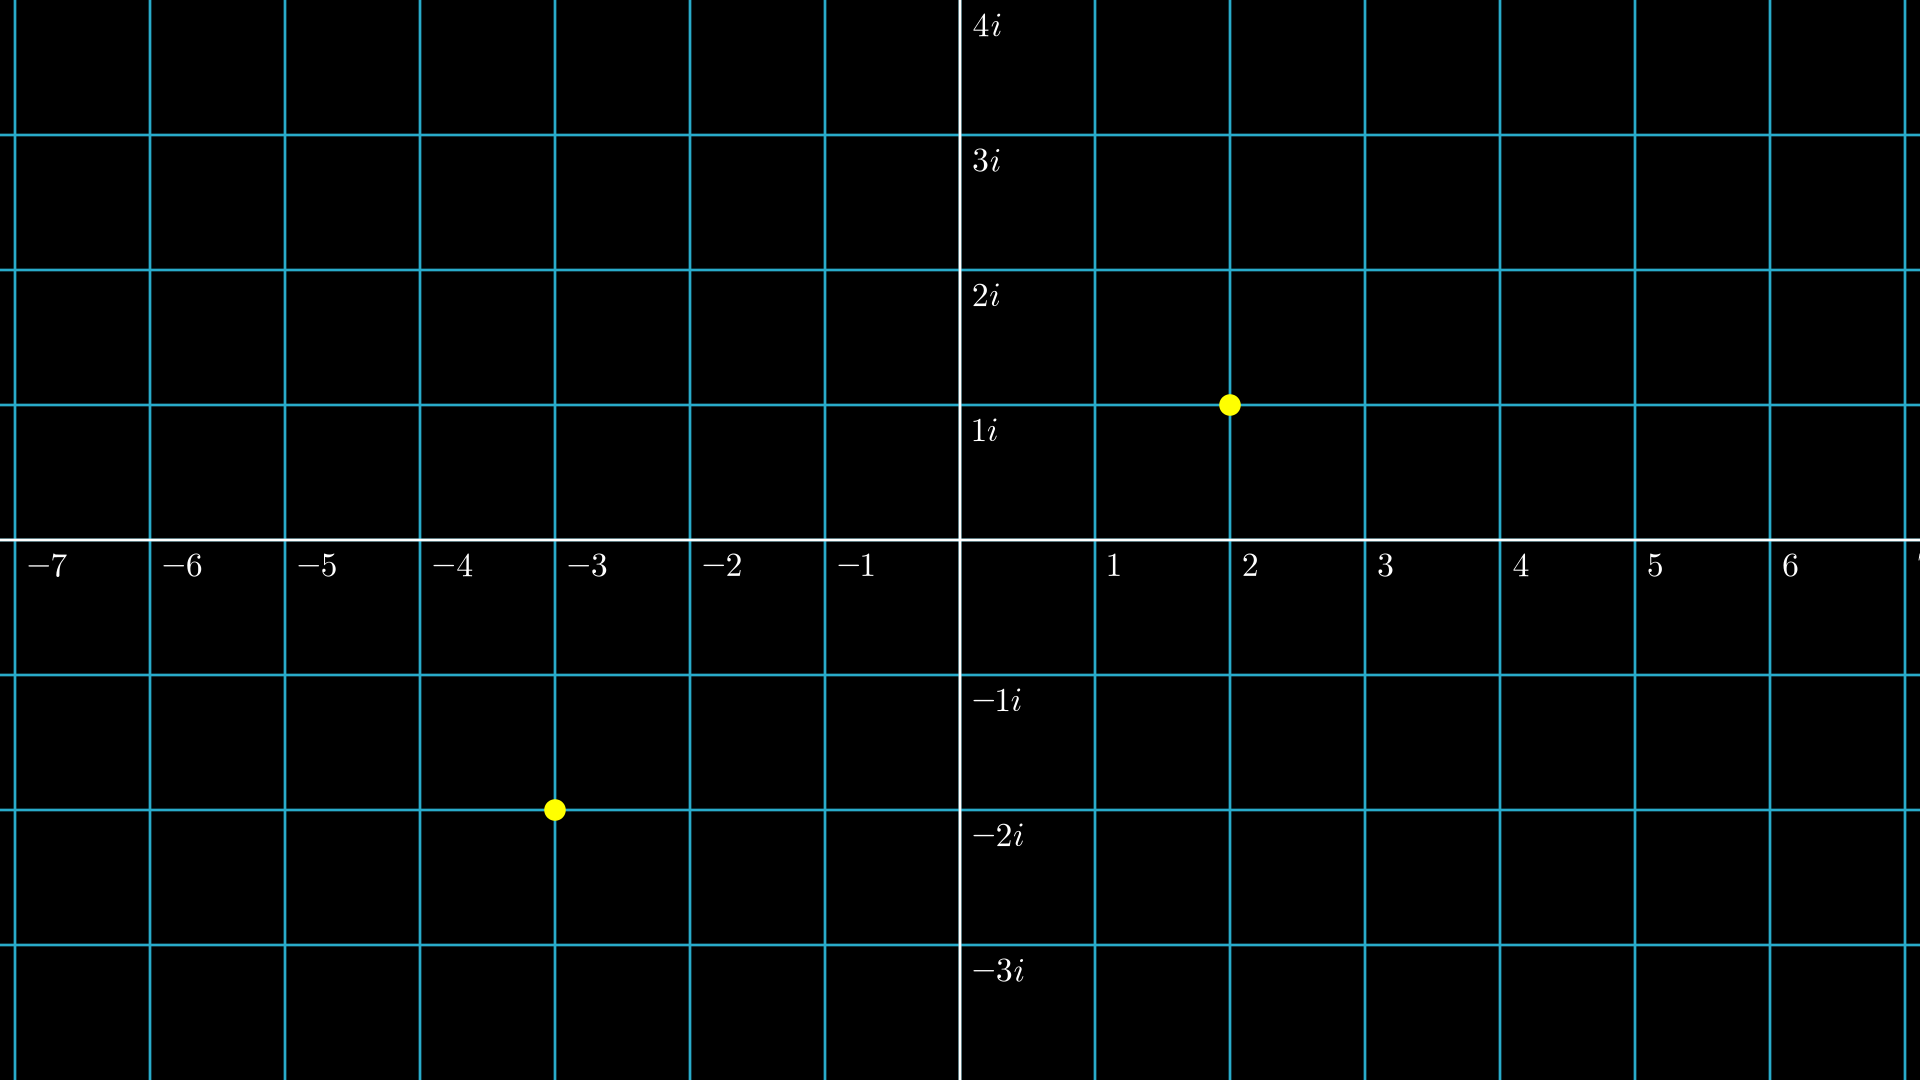
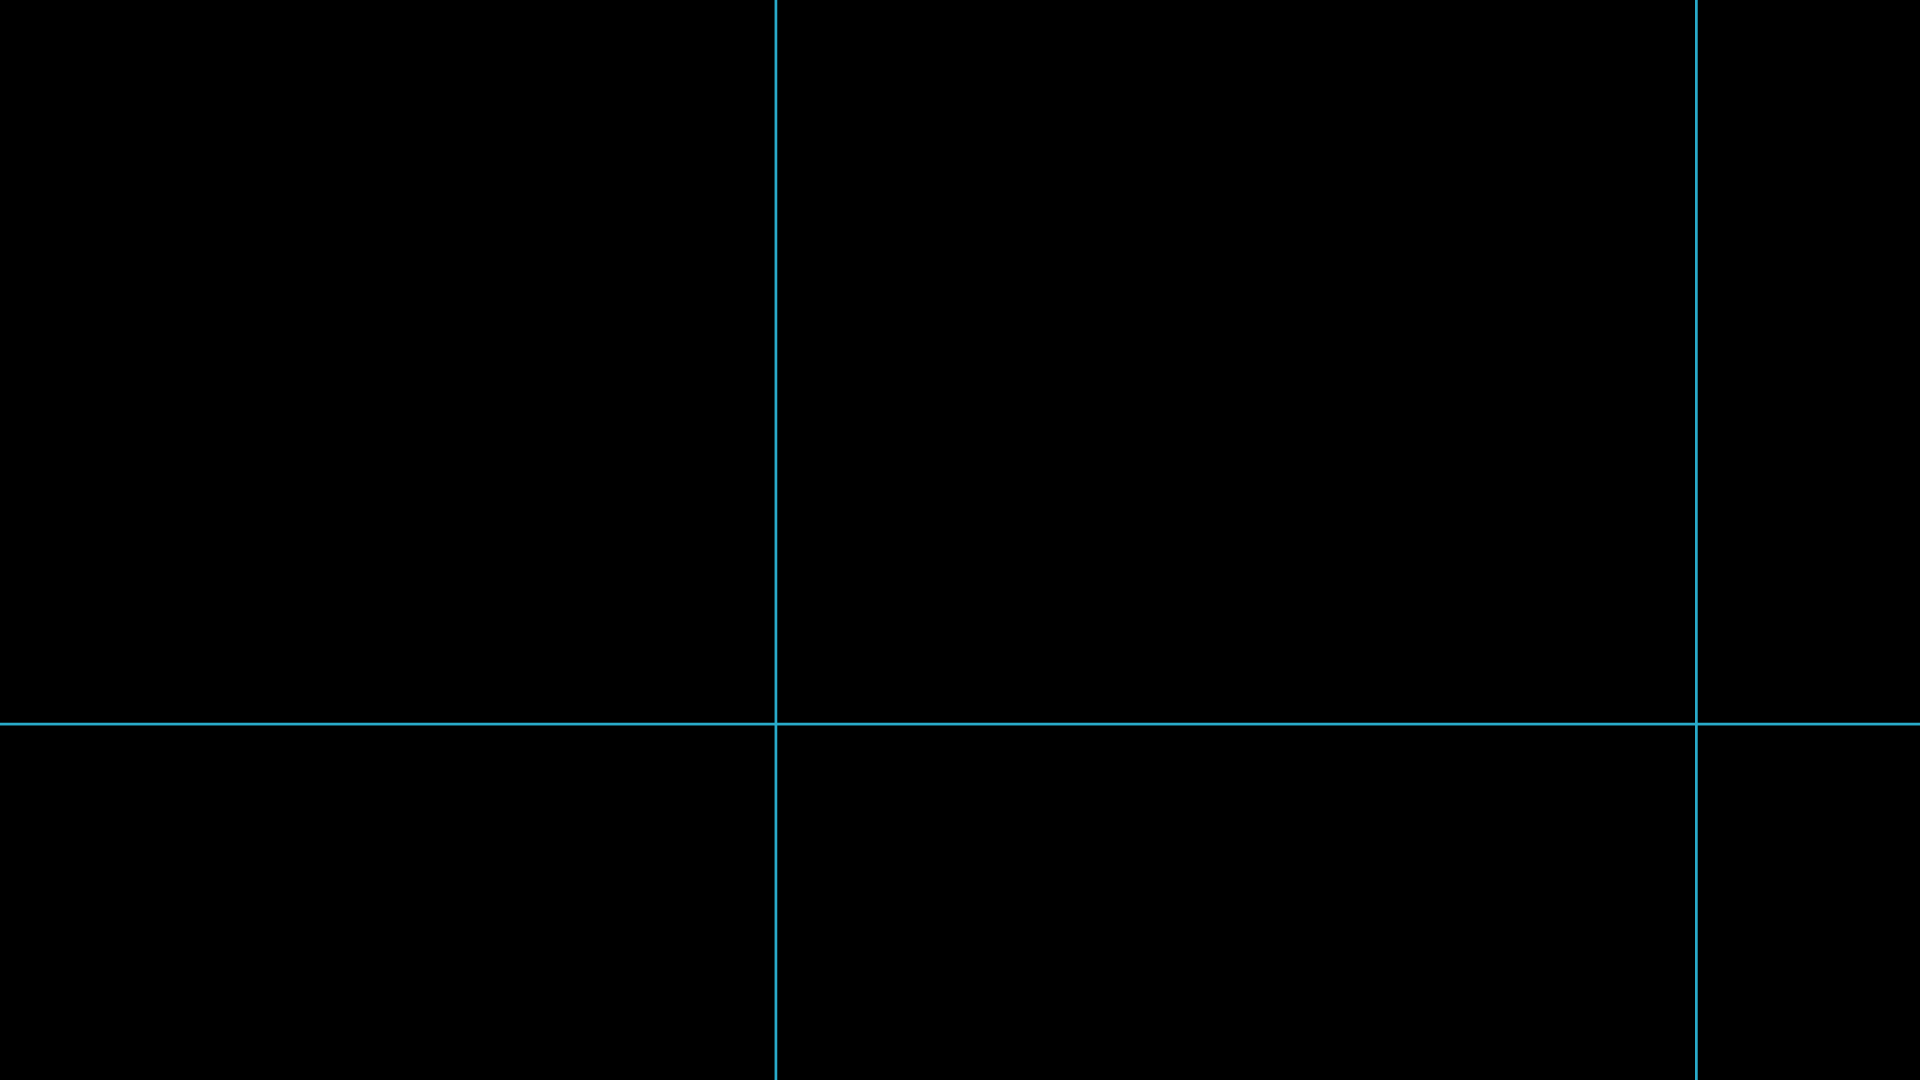
push

diff --git a/src/epicycles.py b/src/epicycles.py
@@ -2,14 +2,16 @@ from manim import *
 
 class createEpicycles(Scene):
     
-    def accessData(self, filename, data):
+    def accessData(self, filename, data, shape):
         
         global polar
         global image_path
+        global image_shape
 
         image_path = filename
         polar = data
-
+        image_shape = shape
+        
     def setup(self): #don't use init
             
         config.quiet = True
@@ -20,20 +22,36 @@ class createEpicycles(Scene):
 
 
 
-    def generate_points(cplane, points):
-        print("FIRST")
+    def generate_points(self, cplane, points):
+        print("generating points")
         for dot in points:
-            r = points[dot][0]
-            cosine = points[dot][1]
-            sine = points[dot][2]
-            self.add(Dot(cplane.n2p(r*cosine + r*sinej), color = YELLOW))
-    
+            comp = complex(dot[0], dot[1])
+        #for dot in points:
+        #    r = dot[0]
+        #    cosine = dot[1]
+        #    sine = dot[2]
+
+        #    comp = complex(r*cosine, r*sine)
+            self.add(Dot(cplane.n2p(comp), color = YELLOW))
+
+
     def construct(self):
-        print("SECOND")
-        plane = ComplexPlane().add_coordinates()
+        
+        print("constructing plane")
+        
+        min_range = min(polar[:][1])
+        max_range = max(polar[:][1])
+
+        min_domain = min(polar[:][0])
+        max_domain = max(polar[:][0])
+        
+        print(min_domain)
+        plane = ComplexPlane(x_range= [min_domain, max_domain, 20], y_range = [min_range, max_range, 20], x_length = 30, y_length = 30)
+
         self.add(plane)
 
-        generate_points(plane, data)
+        self.generate_points(plane, polar)
+
         #d1 = Dot(plane.n2p(2 + 1j), color=YELLOW)
         #d2 = Dot(plane.n2p(-3 - 2j), color=YELLOW)
         

diff --git a/src/filters.py b/src/filters.py
@@ -1,6 +1,5 @@
 import cv2
-from numpy import asarray
-import numpy
+import numpy as np
 import sys
 import matplotlib.pyplot as plt
 import math
@@ -10,8 +9,7 @@ def start_filter(path):
     image_path = path 
     #load in image
     gray = cv2.imread(image_path, cv2.IMREAD_GRAYSCALE)
-    img_copy = gray.copy()
-
+    
     # filter 
     blur = cv2.GaussianBlur(gray, (5,5), 0)
 
@@ -50,8 +48,7 @@ def start_filter(path):
     
     plt.plot(x_array, y_array, 'o')
     plt.show()
-
-    return pixels_polar  
+    return np.stack((x_array, y_array), axis= -1), gray.shape  
 
 
 #numpydata = asarray(edged)

diff --git a/src/main.py b/src/main.py
@@ -12,12 +12,12 @@ if __name__ == '__main__':
     filename = app.path
     
     print(filename)
-    polar = filters.start_filter(filename)
+    polar, img_shape = filters.start_filter(filename)
     #cords = filters.getCords()
 
 #    print(polar)    
     scene = epicycles.createEpicycles()
-    scene.accessData(filename, polar)
+    scene.accessData(filename, polar, img_shape)
     scene.render(scene)
 #    open_media_file(scene.renderer.file_writer.movie_file_path)
 
